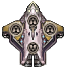
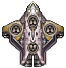
Made sprites less bad

diff --git a/CHANGELOGS.md b/CHANGELOGS.md
@@ -1,3 +1,7 @@
+0.0.8b-indev (hotfix)
+
+- Adjusted - visuals (made sprites less bad)
+
 0.0.8a-indev
 
 - Added - Vindur-class cruiser
